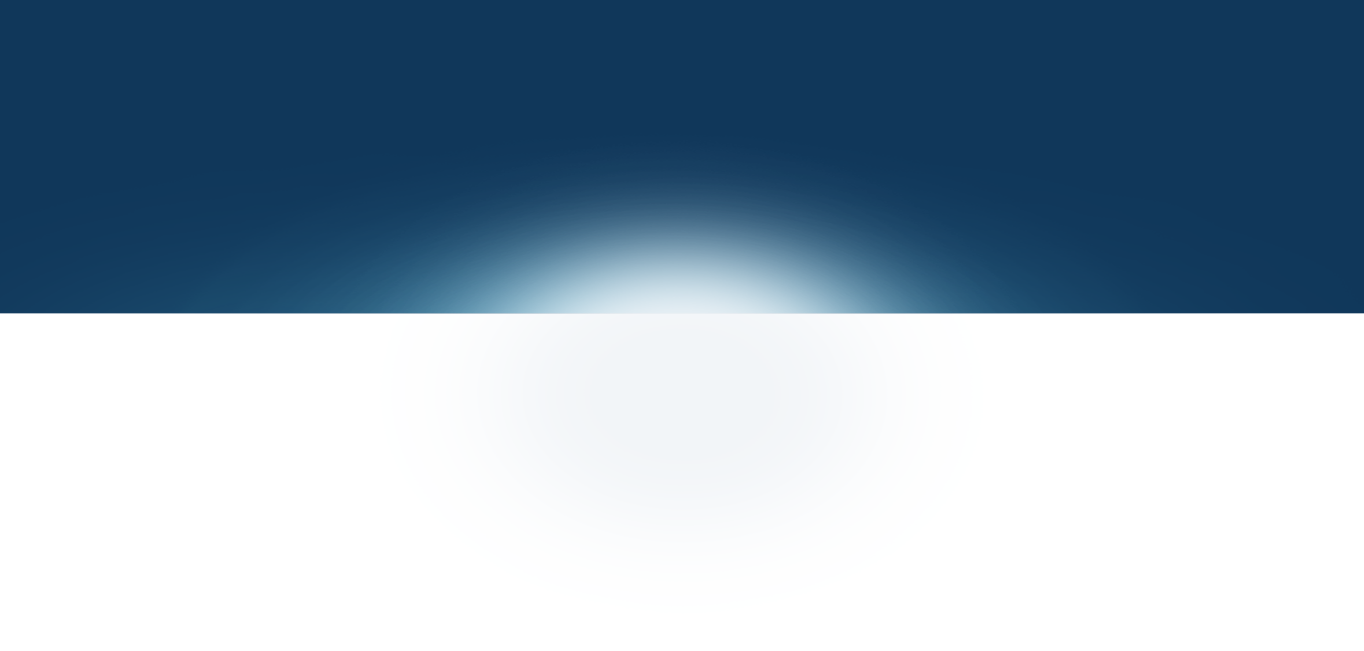
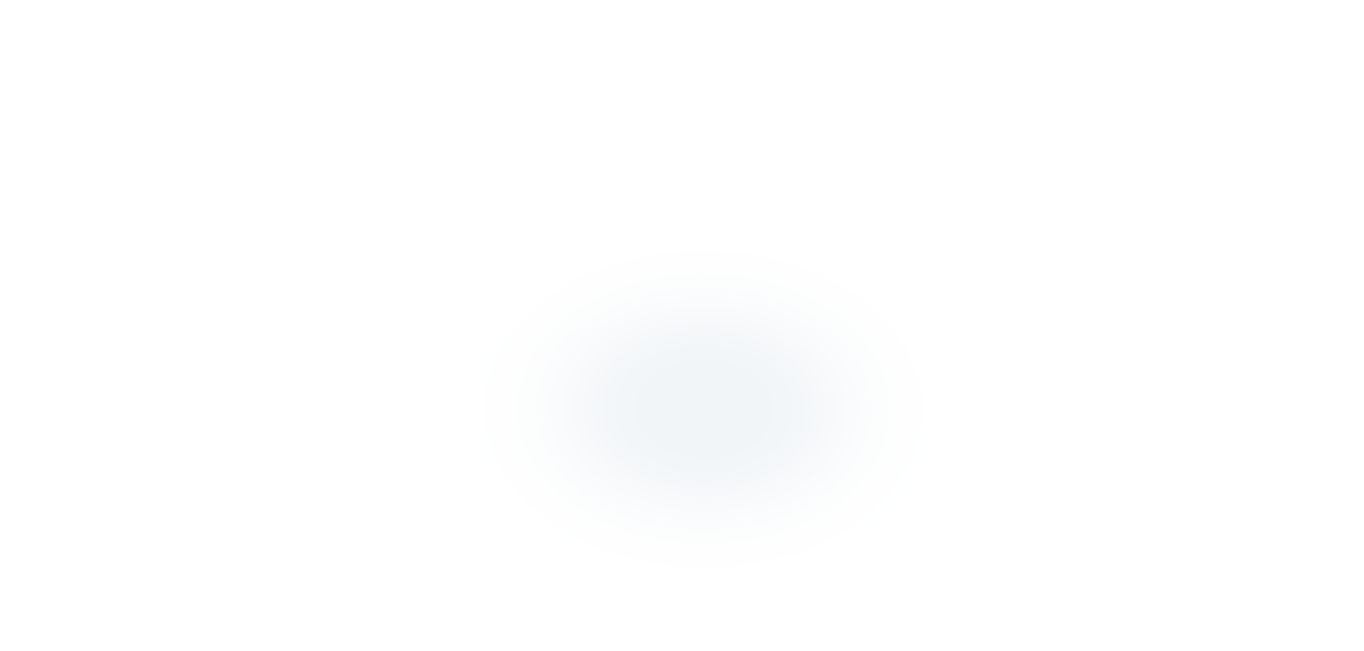
updated header and core base images

diff --git a/index.html b/index.html
@@ -373,7 +373,7 @@
 				</div>
 			</div>
 			<div class="row intro">
-				<img id="core_6" src="assets/img/core.png" class="core intro" style="z-index: 100;">
+				<img id="core_6" src="assets/img/core_base.png" class="core intro" style="z-index: 100;">
 			</div>
 		</div>
 		<div class="buffer"></div>

diff --git a/assets/style.css b/assets/style.css
@@ -39,7 +39,6 @@ html, body {
 .header {
 	text-align: center;
 	font-size: 8vw;
-	color: white;
 	font-weight: 600;
 	background-image: url('img/header_background.png');
 	background-size: contain;
